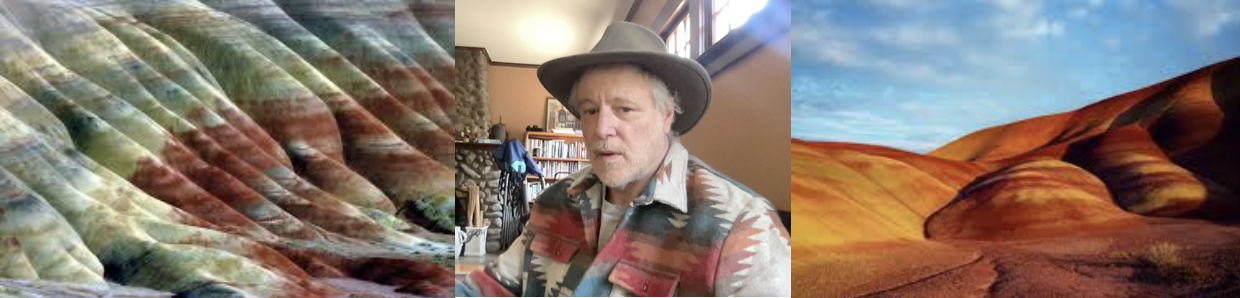
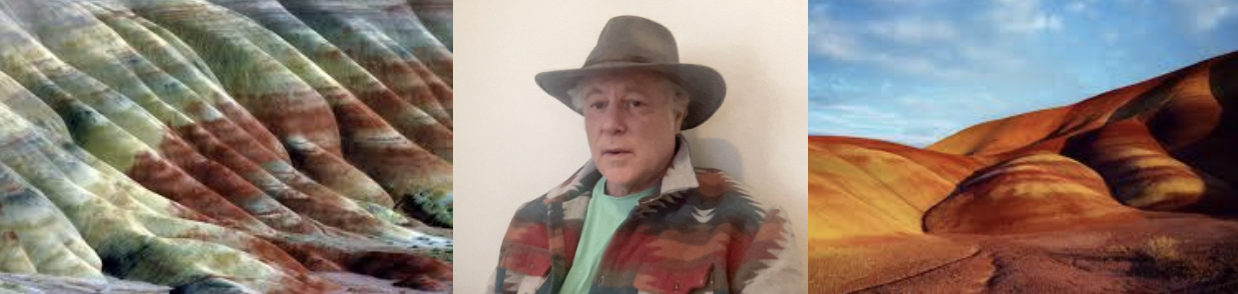
Add files via upload

diff --git a/about.html b/about.html
@@ -70,7 +70,7 @@ text-align: center;
 <p style="text-align:left;">
 </p>
 <p></p>
-<p><img src="July_15_2026.jpg" alt="ian" width="200"></p>
+<p><img src="July_19_2026.jpg" alt="ian" width="200"></p>
 
 
 